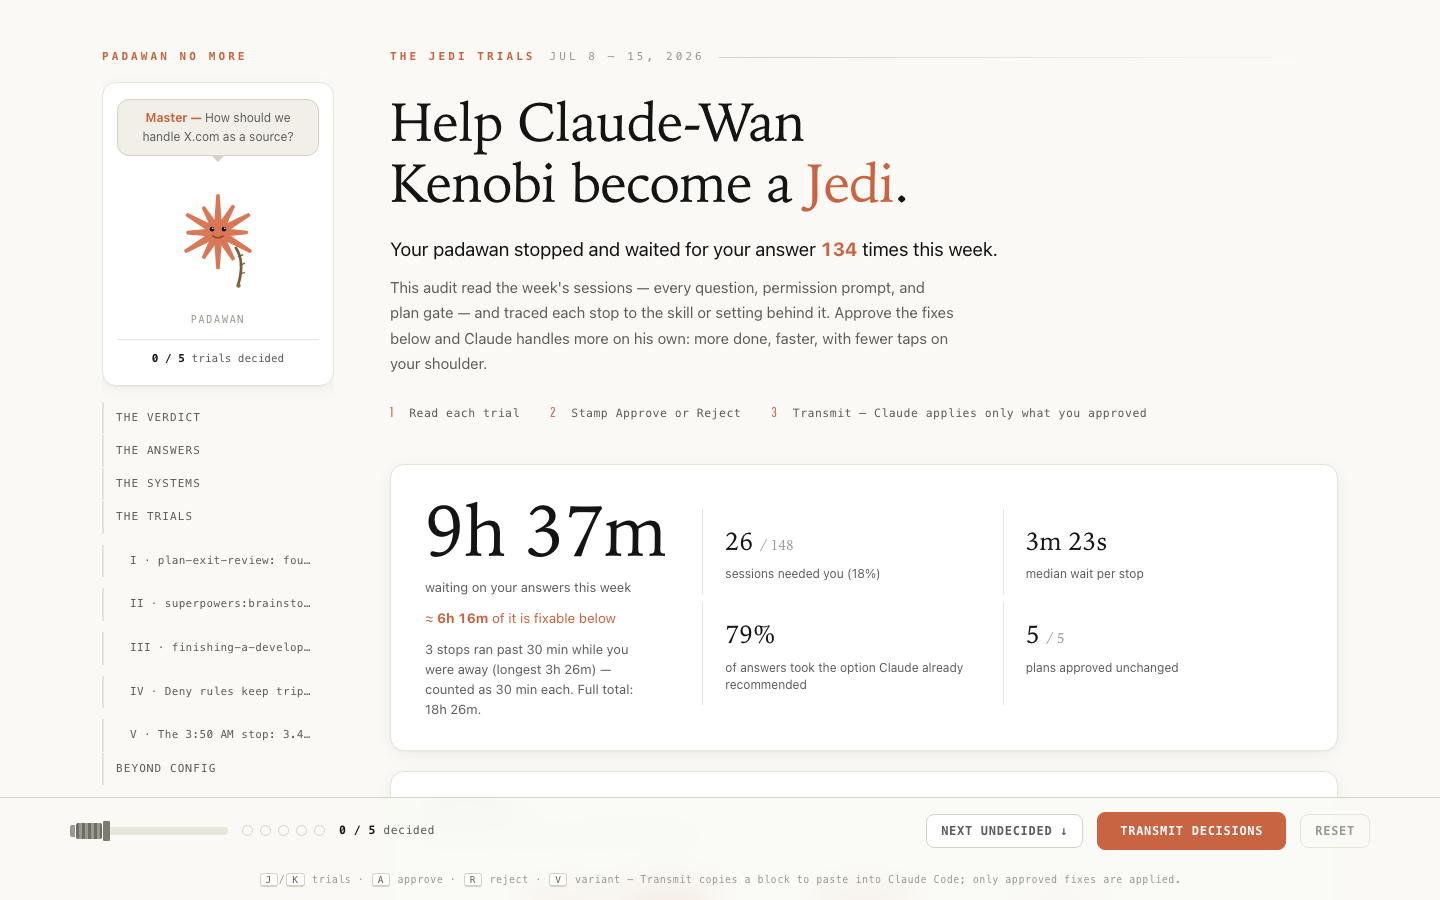
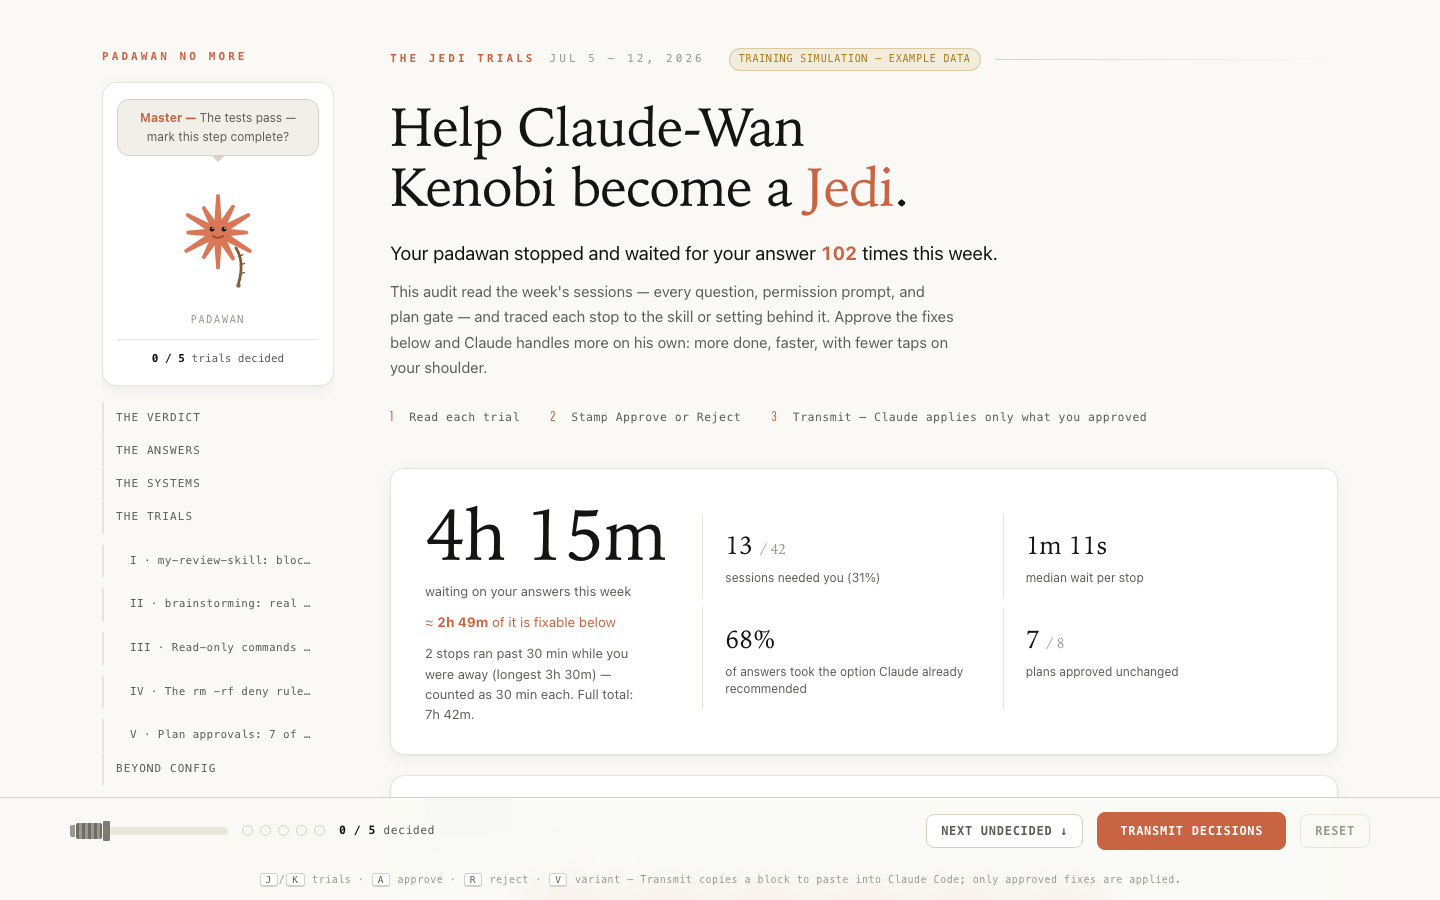
README overhaul + simulation screenshots + mascot
Centered header with the padawan mascot (docs/mascot.svg), a precise
what-it-does-exactly walkthrough, and all four screenshots regenerated
from the bundled training simulation so no personal transcript data
appears anywhere in the repo. The launch-video prompt stays local
(untracked).

diff --git a/README.md b/README.md
@@ -1,6 +1,18 @@
-# Padawan No More ⚔️
+<div align="center">
+
+<img src="docs/mascot.svg" width="130" alt="Claude the padawan — a starburst in robes, braid still on" />
+
+# Padawan No More
 
 **Your Claude has been a padawan long enough. Run the Jedi Trials. Knight it.**
+
+```bash
+npx skills add seyonv/padawan-no-more
+```
+
+</div>
+
+---
 
 Last week, Claude-Wan Kenobi stopped mid-mission to ask for guidance **129 times** —
 about 9 hours of a very capable Jedi standing in your doorway, waiting.
@@ -10,13 +22,66 @@ And 80% of the time, your answer was… the option he had already recommended.
 > _"Master, the recommended option?"_ — Yes.
 > _"Master—"_ — **YES.**
 
-`padawan-no-more` is a Claude Code skill that audits your transcripts, traces every
-stop to the exact config or skill gate that caused it, and publishes an interactive
-**Trials map** — each root cause paired with a ready-to-apply diff you stamp
-**Approve** or **Reject**. Paste your decisions back, and Claude applies exactly
-what you approved. Each week, your padawan needs you a little less.
+Those stops aren't fate. Every one is caused by a specific line in a specific
+file — a skill that mandates "STOP and ask", a missing permission rule, a
+CLAUDE.md habit. `padawan-no-more` finds those lines and hands you the diffs.
 
-![The Trials map](docs/screenshots/trials-map.png)
+## What it does, exactly
+
+A Claude Code skill. You say _"how often did you need me this week?"_ and it:
+
+1. **Scans your transcripts locally** (`~/.claude/projects/*.jsonl`) — every
+   question dialog and which option you picked, every plan-mode approval,
+   every permission denial, every Escape press, and how long Claude sat
+   blocked waiting for each answer.
+2. **Traces every stop to its cause** — the literal line in a SKILL.md,
+   settings.json, or CLAUDE.md that forced it.
+3. **Builds the Trials map** — an interactive local page, one trial card per
+   root cause, costliest first, that assembles itself in your browser while
+   the audit runs.
+4. **You stamp each fix Approve or Reject** — every card carries a ready
+   unified diff. `J`/`K` to move, `A`/`R` to stamp, `V` to switch variants.
+5. **Transmit** — one copied block carries the approved diffs back into any
+   Claude Code session; exactly those are applied, nothing else.
+
+Everything runs on your machine. Nothing is uploaded, ever.
+
+![The Trials map — the verdict for one week](docs/screenshots/trials-map.png)
+
+## The trials
+
+One card per root cause, with receipts: how often it stopped you, what the
+waiting cost, the exact file responsible, and 1–2 fix variants as real diffs.
+Nothing changes until you transmit.
+
+![A trial card: the evidence, the cause, and the fix diff](docs/screenshots/trial-card.png)
+
+The judgment rule at the heart of it: a gate whose answers are ≥80%
+"first option" is **ceremony** — automate it. A gate with real free-text
+answers is **signal** — keep it, batch it. And some stops should never be
+fixed: the audit recommends _keeping_ destructive-command guardrails.
+A Jedi craves not `rm -rf`.
+
+| Signal                   | What you learn                                                                                                                                                                      |
+| ------------------------ | ----------------------------------------------------------------------------------------------------------------------------------------------------------------------------------- |
+| **Skill question gates** | Which skills mandate `AskUserQuestion` stops — with the % of answers that just took the recommended option (ceremony → automate) vs. free-text (real signal → batch, don't silence) |
+| **Plan-mode approvals**  | How often plan gates actually changed anything                                                                                                                                      |
+| **Permission denials**   | Deny-list hits and missing allowlist rules                                                                                                                                          |
+| **Time cost**            | Waiting time per stop, skill, project, and day — plus the five single costliest stops, with exact durations                                                                         |
+| **What NOT to fix**      | Destructive-command guardrails get the diff shown and a **reject** recommendation                                                                                                   |
+
+## The knighting
+
+As you decide, Claude the padawan — the starburst in robes with a braid —
+levels up in the sidebar: robe, belt, saber hilt… and when the last trial is
+decided, the blade ignites and the braid is cut.
+
+![Knighted — all trials decided, the blade ignites](docs/screenshots/knighted.png)
+
+Then **Share the verdict** appears: your week's numbers as a PNG card,
+rendered entirely on your machine. Save it, post it, flex it.
+
+![The verdict card — a shareable PNG of your week](docs/screenshots/verdict-card.png)
 
 ## Install
 
@@ -57,37 +122,6 @@ and hands you a link. Stamp, transmit, paste — done.
 **Light week?** If the scan finds too few stops to be interesting, ask for the
 **training simulation** — a full map built from bundled example data, clearly
 stamped as such — or widen the window ("audit the last 30 days").
-
-## How it works — three stamps and you're done
-
-1. **Read each trial** — one card per root cause, costliest first, with the
-   evidence (how often it stopped you, what it cost) and the exact file responsible.
-2. **Stamp Approve or Reject** — mouse, or keyboard: `J`/`K` move between trials,
-   `A` approve, `R` reject, `V` switch fix variant.
-3. **Transmit** — copy the decision block, paste it into your Claude Code session,
-   and only the approved diffs are applied. Nothing changes until you transmit.
-
-As you decide, Claude the Padawan — the starburst in robes with a braid — levels
-up in the corner: robe, belt, saber hilt… and when the last trial is decided, the
-blade ignites and the braid is cut.
-
-![Knighted — padawan no more](docs/screenshots/knighted.png)
-
-When the last trial is decided, **Share the verdict** appears: a PNG card with
-your week's numbers — stops, hours waiting, first-option rate, time reclaimed —
-rendered entirely on your machine. Save it, post it, flex it.
-
-## What the Trials reveal
-
-| Signal                   | What you learn                                                                                                                                                                            |
-| ------------------------ | ----------------------------------------------------------------------------------------------------------------------------------------------------------------------------------------- |
-| **Skill question gates** | Which skills mandate `AskUserQuestion` stops — with receipts: % of answers that just took the recommended option (ceremony → automate) vs. free-text (real signal → batch, don't silence) |
-| **Plan-mode approvals**  | How often plan gates actually changed anything                                                                                                                                            |
-| **Permission denials**   | Deny-list hits and missing MCP allowlists                                                                                                                                                 |
-| **Time cost**            | Waiting time per stop, skill, project, and day — plus the five single costliest stops, with exact durations                                                                               |
-| **What NOT to fix**      | It recommends _keeping_ destructive-command guardrails. A Jedi craves not `rm -rf`.                                                                                                       |
-
-![A trial card with its fix diff](docs/screenshots/trial-card.png)
 
 ## Configuration
 